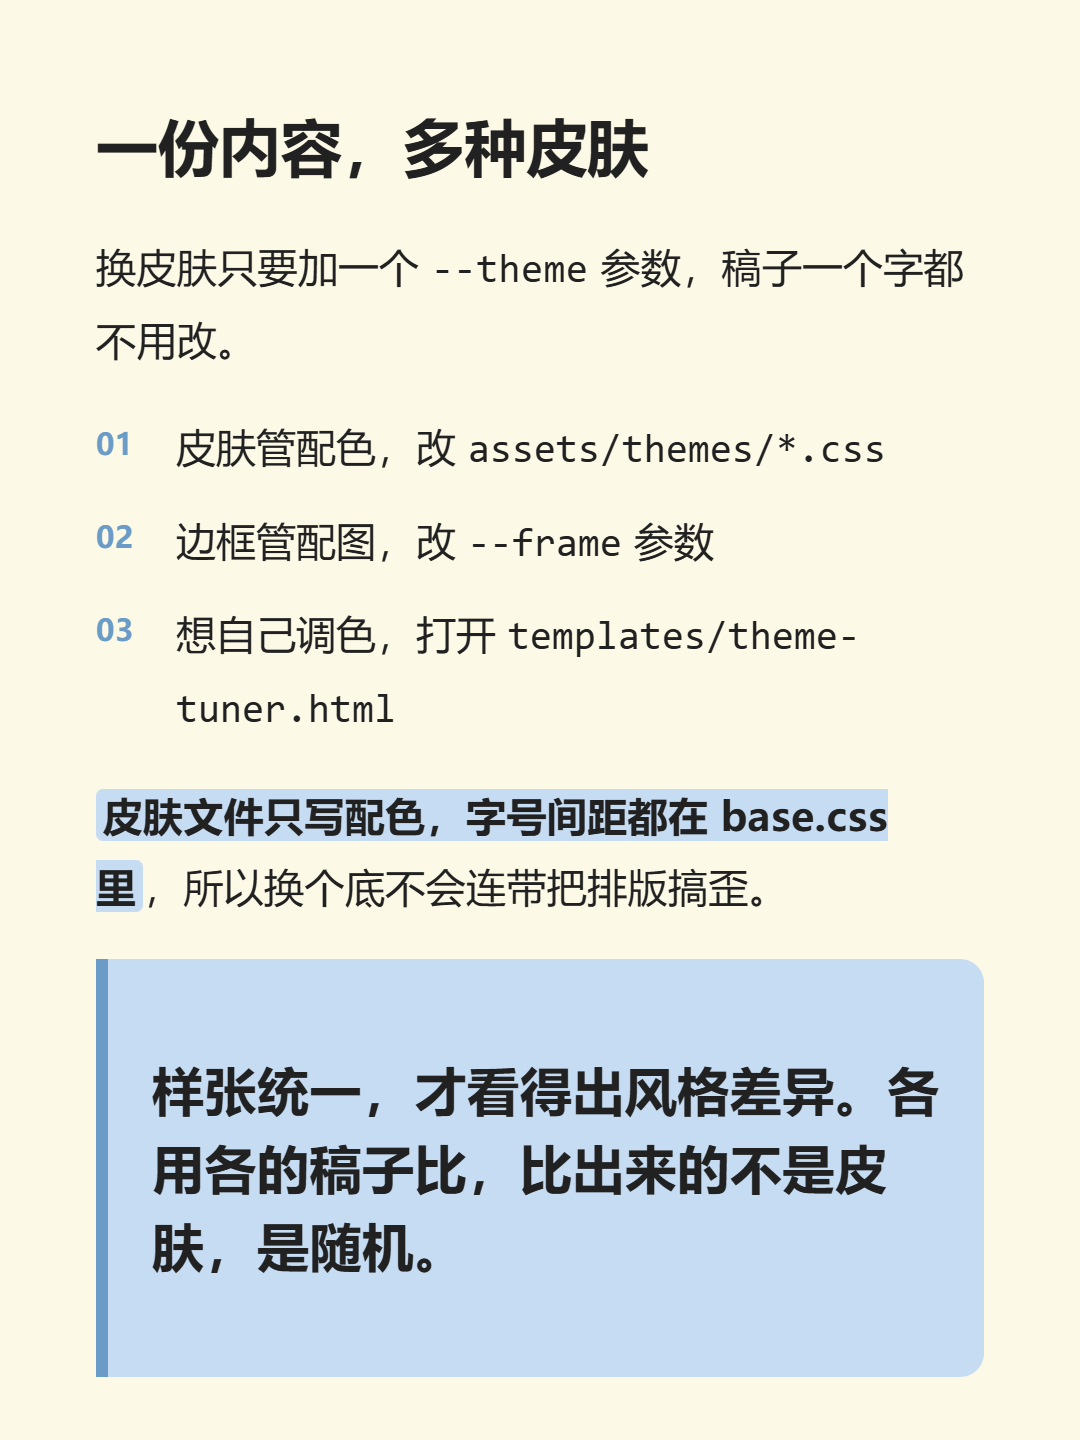
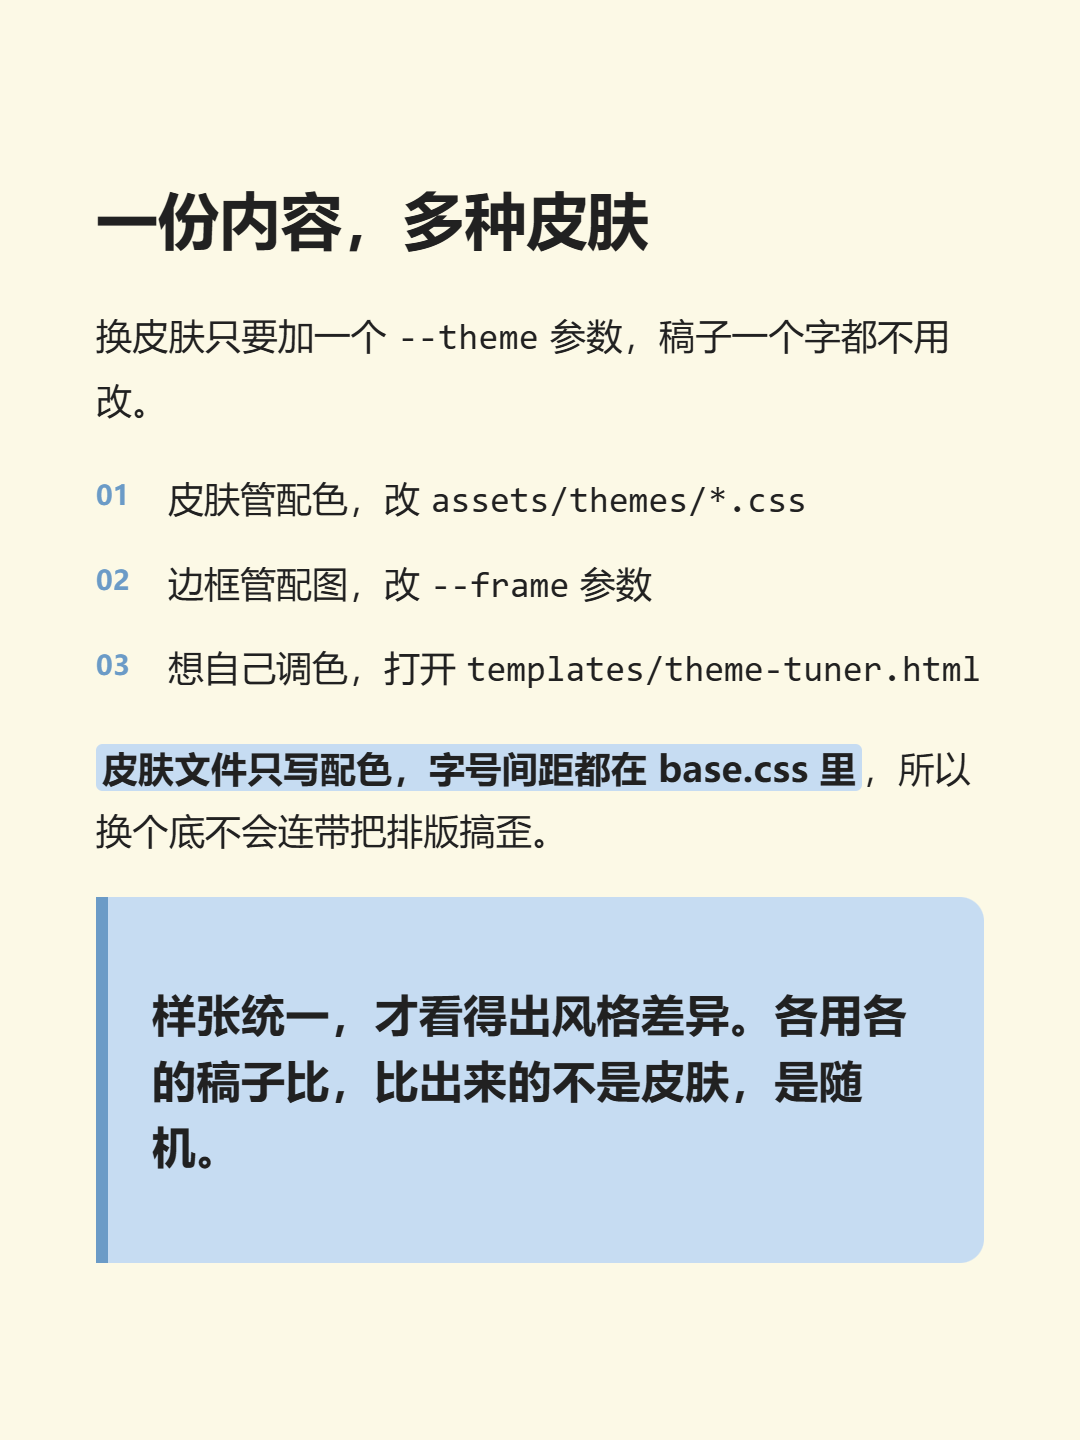
chore(preview): 落盘 default 字号调整 + 重跑生成物
assets/themes/default.css 里 2026-10-10 按用户要求加的字号覆盖
（--body-size 40->36px、--quote-size 52->44px、--body-leading 1.78->1.72）
一直没提交。重跑生成物时发现它和新增皮肤「暮紫」在 gallery.html /
tuner-data.js 里是纠缠的，所以单独落一个 commit，不让两件事混在一起。

包含：
  assets/themes/default.css     字号覆盖（源改动，就那三行）
  docs/gallery.html             重跑：5 套皮肤 + 新字号
  templates/tuner-data.js       重跑：5 套皮肤 + 新字号
  docs/preview/page-content.png 重跑：第 2 页有正文，字号变了
  docs/preview/page-figure.png  重跑：第 3 页同上

（theme-cream.png 没变 —— 封面页不含受影响的正文/引用字号。）

不想要这笔字号调整：删掉 default.css 里那三行，再跑一次
build-tuner.mjs / build-gallery.mjs / build-preview.mjs 即可复原。

diff --git a/docs/gallery.html b/docs/gallery.html
@@ -64,7 +64,7 @@ body.gal {
 </head>
 <body class="gal">
 <h1>视觉模板总览</h1>
-<p class="lede">共 <b>4</b> 套皮肤 × <b>3</b> 种配图边框 = <b>12</b> 种组合。下面每张卡片都是真实渲染产物，不是截图素材。</p>
+<p class="lede">共 <b>5</b> 套皮肤 × <b>3</b> 种配图边框 = <b>15</b> 种组合。下面每张卡片都是真实渲染产物，不是截图素材。</p>
 <p class="note">本页由 <code>node scripts/build-gallery.mjs</code> 生成，样式改完重跑一遍即可。样张稿件：<code>examples/demo-gallery.md</code></p>
 
 
@@ -82,7 +82,7 @@ body.gal {
     <p class="tpl__cmd"><code>--theme default</code></p>
     <p class="tpl__alias">别名：default / 默认 / 奶油蓝 / creamblue / cream-blue</p>
   </div>
-  <div class="tpl__cards"><div class="shot"><div class="scope" style="--card-bg: #fcf9e6; --ink-strong: #212121; --ink: #212121; --ink-soft: #7d9fbf; --ink-faint: #bcd0e2; --accent: #6b9bc7; --mark-bg: #c6dcf2; --quote-bg: #c6dcf2; --divider: #a5c0db;"><div class="deck"><section class="card card--cover">
+  <div class="tpl__cards"><div class="shot"><div class="scope" style="--card-bg: #fcf9e6; --ink-strong: #212121; --ink: #212121; --ink-soft: #7d9fbf; --ink-faint: #bcd0e2; --accent: #6b9bc7; --mark-bg: #c6dcf2; --quote-bg: #c6dcf2; --divider: #a5c0db; --body-size: 36px; --body-leading: 1.72; --quote-size: 44px;"><div class="deck"><section class="card card--cover">
   <div class="card__head"><span class="card__kicker">样式参考</span><h1 class="card__title">一套样张，看遍所有皮肤</h1></div>
   <div class="card__body">
     <div class="card__content">
@@ -90,7 +90,7 @@ body.gal {
     </div>
   </div>
   
-</section></div></div></div><div class="shot"><div class="scope" style="--card-bg: #fcf9e6; --ink-strong: #212121; --ink: #212121; --ink-soft: #7d9fbf; --ink-faint: #bcd0e2; --accent: #6b9bc7; --mark-bg: #c6dcf2; --quote-bg: #c6dcf2; --divider: #a5c0db;"><div class="deck"><section class="card card--content card--airy">
+</section></div></div></div><div class="shot"><div class="scope" style="--card-bg: #fcf9e6; --ink-strong: #212121; --ink: #212121; --ink-soft: #7d9fbf; --ink-faint: #bcd0e2; --accent: #6b9bc7; --mark-bg: #c6dcf2; --quote-bg: #c6dcf2; --divider: #a5c0db; --body-size: 36px; --body-leading: 1.72; --quote-size: 44px;"><div class="deck"><section class="card card--content card--airy">
   <div class="card__head"><h2 class="card__title">一份内容，多种皮肤</h2></div>
   <div class="card__body">
     <div class="card__content">
@@ -101,7 +101,7 @@ body.gal {
     </div>
   </div>
   
-</section></div></div></div><div class="shot"><div class="scope" style="--card-bg: #fcf9e6; --ink-strong: #212121; --ink: #212121; --ink-soft: #7d9fbf; --ink-faint: #bcd0e2; --accent: #6b9bc7; --mark-bg: #c6dcf2; --quote-bg: #c6dcf2; --divider: #a5c0db;"><div class="deck"><section class="card card--content">
+</section></div></div></div><div class="shot"><div class="scope" style="--card-bg: #fcf9e6; --ink-strong: #212121; --ink: #212121; --ink-soft: #7d9fbf; --ink-faint: #bcd0e2; --accent: #6b9bc7; --mark-bg: #c6dcf2; --quote-bg: #c6dcf2; --divider: #a5c0db; --body-size: 36px; --body-leading: 1.72; --quote-size: 44px;"><div class="deck"><section class="card card--content">
   <div class="card__head"><h2 class="card__title">配图边框</h2></div>
   <div class="card__body">
     <div class="card__content">
@@ -235,6 +235,47 @@ body.gal {
   
 </section></div></div></div></div>
 </article>
+<article class="tpl">
+  <div class="tpl__info">
+    <h3>暮紫<span class="badge">深色底</span></h3>
+    <p class="tpl__file">assets/themes/暮紫.css</p>
+    <p class="tpl__desc">深靛蓝底 + 奶油白字 + 粉强调，冷底暖字的对照</p>
+    <p class="tpl__use"><b>适合</b>　情绪 / 观点 / 女性向内容 / 想要柔和一点的个人表达</p>
+    <div class="sw"><span style="background:#4e506c" title="--card-bg: #4e506c"></span><span style="background:#fff0e3" title="--ink: #fff0e3"></span><span style="background:#f7d0d1" title="--accent: #f7d0d1"></span><span style="background:#f8d7d7" title="--mark-bg: #f8d7d7"></span></div>
+    <ul class="ratio"><li><span>--accent 序号/标签</span><b class="ok">5.54:1 ✓</b></li><li><span>--ink-soft 副标题</span><b class="ok">4.72:1 ✓</b></li><li><span>--ink 正文</span><b class="ok">7.00:1 ✓</b></li></ul>
+    <p class="tpl__cmd"><code>--theme 暮紫</code></p>
+    <p class="tpl__alias">别名：暮紫 / 紫霞 / 紫夜 / dusk / purple / violet</p>
+  </div>
+  <div class="tpl__cards"><div class="shot"><div class="scope" style="--card-bg: #4e506c; --ink-strong: #fff0e3; --ink: #fff0e3; --ink-soft: #d1c7c4; --ink-faint: #918d99; --accent: #f7d0d1; --mark-bg: #f8d7d7; --mark-ink: #4e506c; --quote-bg: #575872; --divider: #6c6b80; --stage-bg: #2c2e3e; --card-shadow: 0 18px 48px rgba(0, 0, 0, 0.45);"><div class="deck"><section class="card card--cover">
+  <div class="card__head"><span class="card__kicker">样式参考</span><h1 class="card__title">一套样张，看遍所有皮肤</h1></div>
+  <div class="card__body">
+    <div class="card__content">
+<blockquote><p>下面三页在所有皮肤/边框下<strong>共用同一份内容</strong>，只有样式在变</p></blockquote>
+    </div>
+  </div>
+  
+</section></div></div></div><div class="shot"><div class="scope" style="--card-bg: #4e506c; --ink-strong: #fff0e3; --ink: #fff0e3; --ink-soft: #d1c7c4; --ink-faint: #918d99; --accent: #f7d0d1; --mark-bg: #f8d7d7; --mark-ink: #4e506c; --quote-bg: #575872; --divider: #6c6b80; --stage-bg: #2c2e3e; --card-shadow: 0 18px 48px rgba(0, 0, 0, 0.45);"><div class="deck"><section class="card card--content card--airy">
+  <div class="card__head"><h2 class="card__title">一份内容，多种皮肤</h2></div>
+  <div class="card__body">
+    <div class="card__content">
+<p>换皮肤只要加一个 <code>--theme</code> 参数，稿子一个字都不用改。</p>
+<ol><li>皮肤管配色，改 <code>assets/themes/*.css</code></li><li>边框管配图，改 <code>--frame</code> 参数</li><li>想自己调色，打开 <code>templates/theme-tuner.html</code></li></ol>
+<p><mark>皮肤文件只写配色，字号间距都在 base.css 里</mark>，所以换个底不会连带把排版搞歪。</p>
+<blockquote><p>样张统一，才看得出风格差异。各用各的稿子比，比出来的不是皮肤，是随机。</p></blockquote>
+    </div>
+  </div>
+  
+</section></div></div></div><div class="shot"><div class="scope" style="--card-bg: #4e506c; --ink-strong: #fff0e3; --ink: #fff0e3; --ink-soft: #d1c7c4; --ink-faint: #918d99; --accent: #f7d0d1; --mark-bg: #f8d7d7; --mark-ink: #4e506c; --quote-bg: #575872; --divider: #6c6b80; --stage-bg: #2c2e3e; --card-shadow: 0 18px 48px rgba(0, 0, 0, 0.45);"><div class="deck"><section class="card card--content">
+  <div class="card__head"><h2 class="card__title">配图边框</h2></div>
+  <div class="card__body">
+    <div class="card__content">
+<figure><img src="../examples/images/sample-1.png" alt=""></figure>
+<p><code>--frame</code> 有三个值：<code>hairline</code> 细描边、<code>paper</code> 相纸框、<code>none</code> 无边框。 边框宽度会算进分页权重，所以换粗边框只会换页，不会溢出。</p>
+    </div>
+  </div>
+  
+</section></div></div></div></div>
+</article>
 
 <h2>配图边框</h2>
 <p class="hint">同一份样张、同一套皮肤（默认奶油蓝），只换边框。肤色/底色不同的皮肤下，边框色会跟着皮肤的变量走。</p>
@@ -305,7 +346,7 @@ body.gal {
     <p class="tpl__cmd"><code>--frame none</code></p>
     <p class="tpl__alias">别名：none / 无 / 无边框 / 不要边框</p>
   </div>
-  <div class="tpl__cards"><div class="shot"><div class="scope" style="--img-border-w: 0px; --img-border-color: transparent; --img-shadow: none;"><div class="deck"><section class="card card--content">
+  <div class="tpl__cards"><div class="shot"><div class="scope" style="--img-border-w: 0px; --img-border-color: transparent; --img-shadow: none;"><div class="deck"><section class="card card--content card--airy">
   <div class="card__head"><h2 class="card__title">配图边框</h2></div>
   <div class="card__body">
     <div class="card__content">

diff --git a/templates/tuner-data.js b/templates/tuner-data.js
@@ -29,7 +29,10 @@ window.__XHS_TPL__ = {
         "--accent": "#6b9bc7",
         "--mark-bg": "#c6dcf2",
         "--quote-bg": "#c6dcf2",
-        "--divider": "#a5c0db"
+        "--divider": "#a5c0db",
+        "--body-size": "36px",
+        "--body-leading": "1.72",
+        "--quote-size": "44px"
       }
     },
     {
@@ -111,6 +114,36 @@ window.__XHS_TPL__ = {
         "--quote-bg": "#e7eee1",
         "--divider": "#c3cfc2"
       }
+    },
+    {
+      "key": "暮紫",
+      "name": "暮紫",
+      "badges": "深色底",
+      "slug": "dusk",
+      "aliases": [
+        "暮紫",
+        "紫霞",
+        "紫夜",
+        "dusk",
+        "purple",
+        "violet"
+      ],
+      "summary": "深靛蓝底 + 奶油白字 + 粉强调，冷底暖字的对照",
+      "order": 5,
+      "decls": {
+        "--card-bg": "#4e506c",
+        "--ink-strong": "#fff0e3",
+        "--ink": "#fff0e3",
+        "--ink-soft": "#d1c7c4",
+        "--ink-faint": "#918d99",
+        "--accent": "#f7d0d1",
+        "--mark-bg": "#f8d7d7",
+        "--mark-ink": "#4e506c",
+        "--quote-bg": "#575872",
+        "--divider": "#6c6b80",
+        "--stage-bg": "#2c2e3e",
+        "--card-shadow": "0 18px 48px rgba(0, 0, 0, 0.45)"
+      }
     }
   ],
   "frames": [
@@ -164,6 +197,8 @@ window.__XHS_TPL__ = {
   ],
   "themeVarKeys": [
     "--accent",
+    "--body-leading",
+    "--body-size",
     "--card-bg",
     "--card-shadow",
     "--divider",
@@ -174,8 +209,9 @@ window.__XHS_TPL__ = {
     "--mark-bg",
     "--mark-ink",
     "--quote-bg",
+    "--quote-size",
     "--stage-bg"
   ],
-  "themeCount": 4,
+  "themeCount": 5,
   "frameCount": 3
 };

diff --git a/assets/themes/default.css b/assets/themes/default.css
@@ -59,4 +59,13 @@
 
   /* 分隔线：同时决定 hairline 配图边框的颜色 */
   --divider: #a5c0db;
+
+  /* ---------- 字号覆盖（按用户要求调小） ----------
+     2026-10-10：用户要求「正文字号调小、引用块字号也调小」。
+     基准值在 assets/base.css：--body-size 40px / --quote-size 52px，
+     本处下调为 36px / 44px，并同步把行距从 1.78 收到 1.72。
+     想复原直接删掉这三行即可。 */
+  --body-size: 36px;
+  --body-leading: 1.72;
+  --quote-size: 44px;
 }
